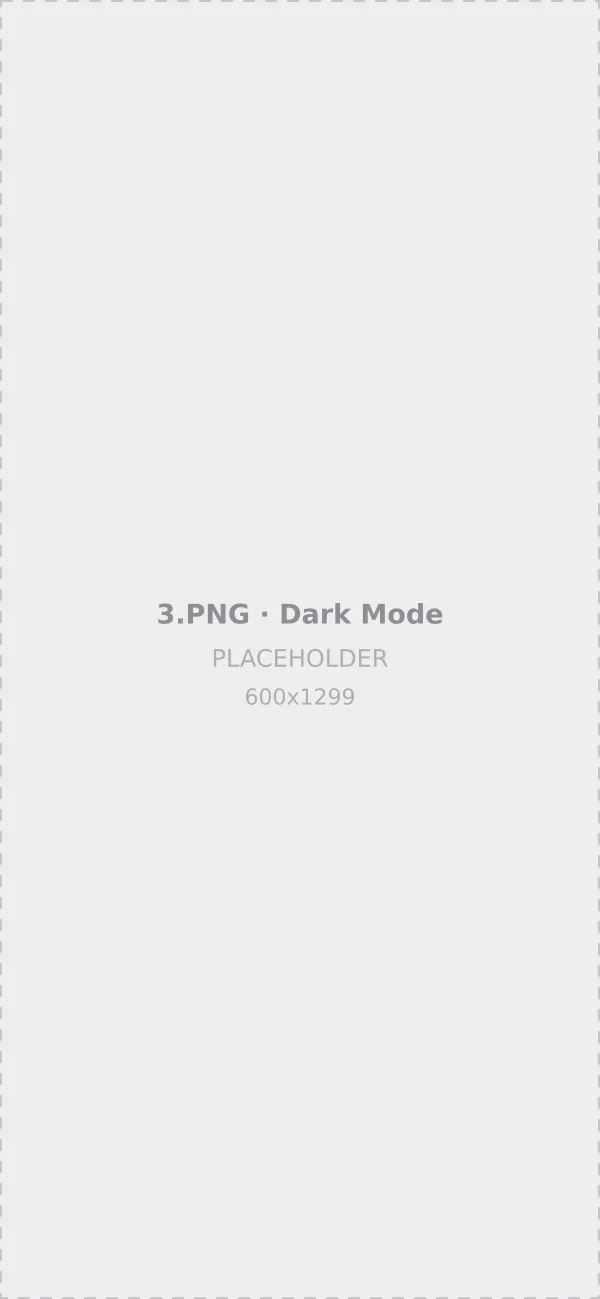
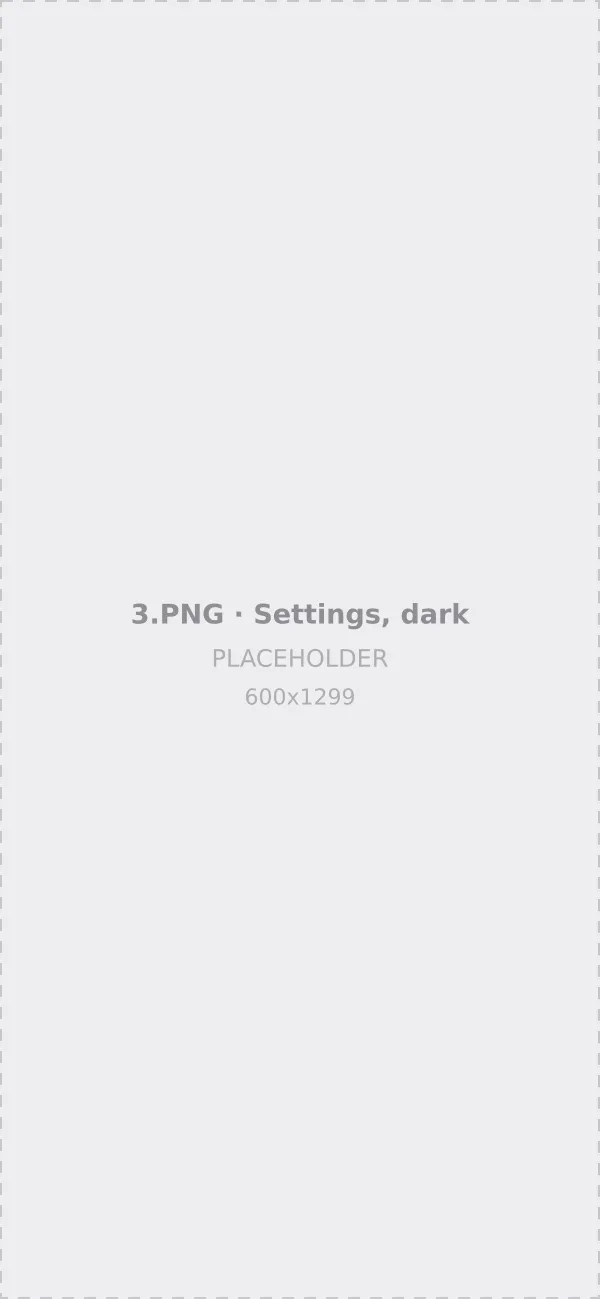
Confirm screenshot mapping against the actual captures
The five screenshots were shared visually, which is enough to verify the
upload-to-feature mapping even though the files themselves are not on disk
and the real assets still cannot be built.

The handoff's ordering is correct and deliberate: 2.PNG and 3.PNG are the
light and dark captures of the same Settings screen, so the dark one
illustrates Dark Mode while the light one illustrates the membership expiry
row. That is why they read as swapped relative to feature order.

Placeholder labels now name the actual screen each slot expects, so a
reviewer can tell at a glance whether a dropped-in asset landed correctly.

Claude-Session: https://claude.ai/code/session_01Kzo7Ua3BEbkSnn3gmvZJQQ

Changed region(s): [[0.21, 0.4619, 0.78, 0.4927]]

diff --git a/release-notes/ios/README.md b/release-notes/ios/README.md
@@ -133,16 +133,20 @@ Neither gate replaces a real-device pass — safe-area insets, overscroll behavi
 
 ## Assets
 
-`assets/` currently holds placeholders, visibly stamped `PLACEHOLDER`. The upload-to-feature mapping below comes from the handoff and is **not** in filename order — note that `2.PNG` and `3.PNG` are swapped relative to the feature order:
+`assets/` currently holds placeholders, visibly stamped `PLACEHOLDER`. The upload-to-feature mapping comes from the handoff and has been confirmed against the screenshots themselves. It is **not** in filename order:
 
-| Design upload | Ships as | Feature |
-|---|---|---|
-| `1.PNG` | `shot-1` | 1 — Interface polish |
-| `Group 2.png` | `shot-2` | 2 — Account linking |
-| `3.PNG` | `shot-3` | 3 — Dark Mode |
-| `2.PNG` | `shot-4` | 4 — Membership expiry |
-| `4.PNG` | `shot-5` | 5 — Trip stats |
-| `rocket-lineart-even@2x.png` | `rocket-lineart` | hero |
+| Design upload | Ships as | Feature | Screen |
+|---|---|---|---|
+| `1.PNG` | `shot-1` | 1 — Interface polish | Home, dark |
+| `Group 2.png` | `shot-2` | 2 — Account linking | Login & security |
+| `3.PNG` | `shot-3` | 3 — Dark Mode | Settings, dark |
+| `2.PNG` | `shot-4` | 4 — Membership expiry | Settings, light (Pro+ expiry row) |
+| `4.PNG` | `shot-5` | 5 — Trip stats | My Trips, flight passport card |
+| `rocket-lineart-even@2x.png` | `rocket-lineart` | hero | — |
+
+`2.PNG` and `3.PNG` look swapped because they are the light and dark captures of the *same* Settings screen: the dark one illustrates Dark Mode, the light one illustrates the membership expiry row. The ordering is deliberate, not an error in the handoff.
+
+Note that feature 1 and 3 use dark captures while feature 4 uses a light one, so the page shows a mix of both in either scheme. That is what the design specifies.
 
 To swap in the real images:
 
